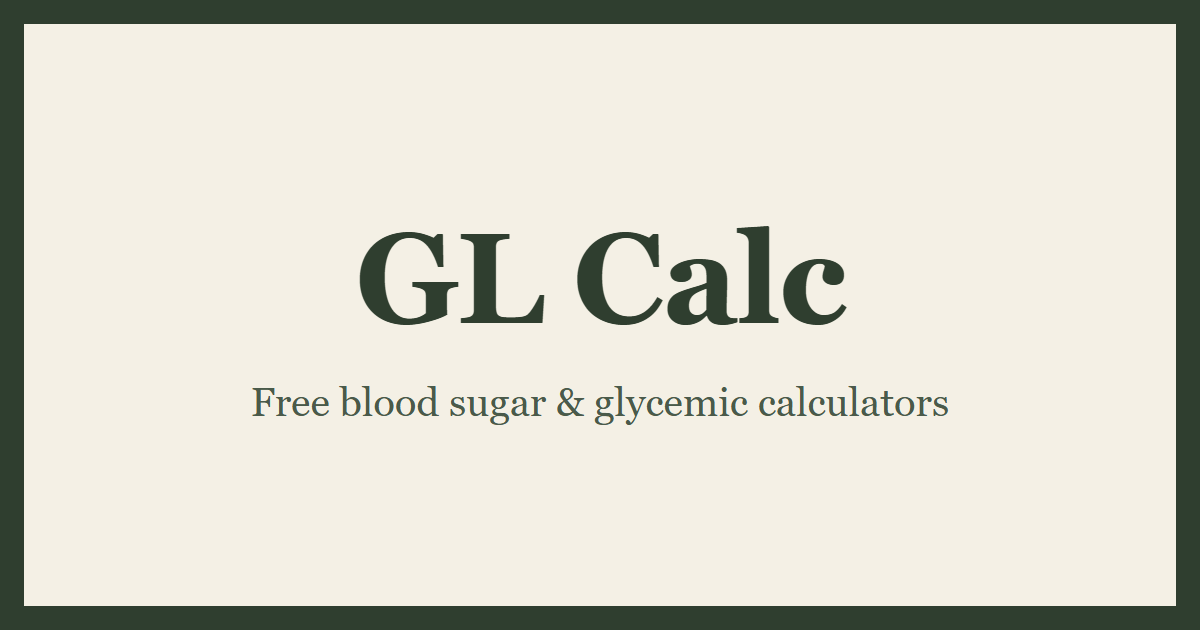
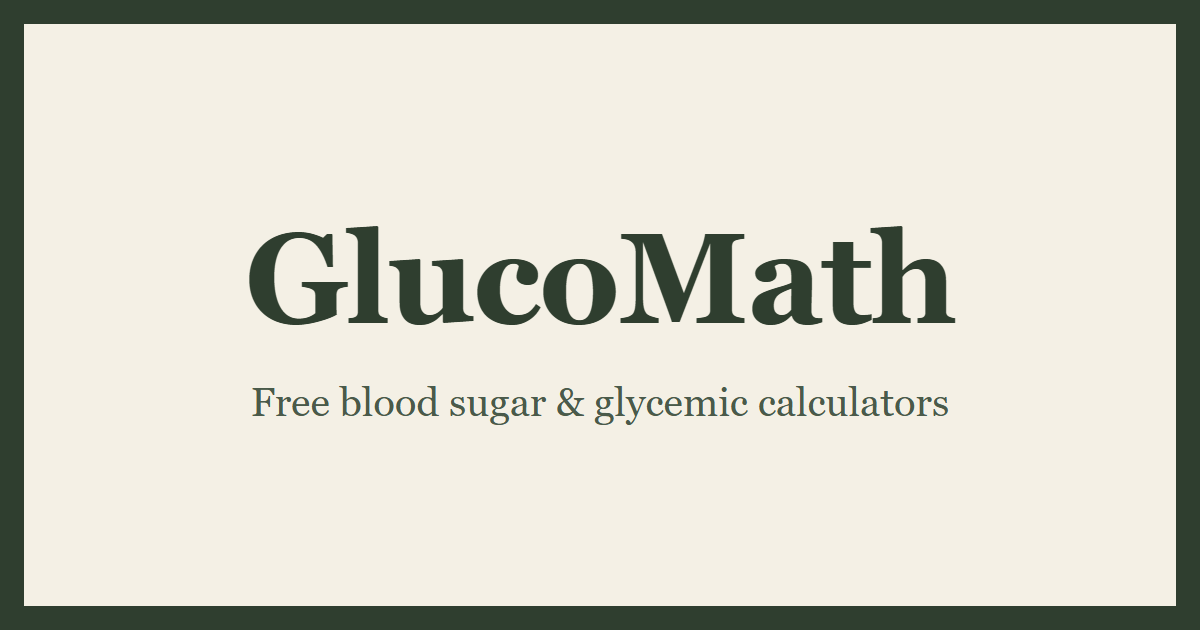
feat: brand and domain cutover to GlucoMath / glucomath.com (ticket 15 code side, verified)
Defaults flipped (env override kept, node fallback); manifest/meta/og-cover rebranded; pwa.spec reads BRAND from site.config; host-conditional 308 redirect glcalc.vercel.app -> glucomath.com; verify-dist item 10 now PASS (zero old-domain hits); assafmo MIT attribution untouched; independent QA pass cycle 1. Push held until Vercel domain binding.

Changed region(s): [[0.185, 0.3619, 0.8017, 0.5127]]

diff --git a/tests/e2e/pwa.spec.js b/tests/e2e/pwa.spec.js
@@ -1,4 +1,7 @@
 import { test, expect } from "@playwright/test";
+// Brand assertions read the site constant (Spec §4 P5-3): a future rename only
+// touches src/site.config.js + the static assets, never this spec.
+import { BRAND } from "../../src/site.config.js";
 
 test("exposes installable PWA metadata and icon assets", async ({ page, request }) => {
   await page.goto("/");
@@ -13,7 +16,7 @@ test("exposes installable PWA metadata and icon assets", async ({ page, request 
   await expect(appleCapable).toHaveAttribute("content", "yes");
 
   const appleTitle = page.locator('meta[name="apple-mobile-web-app-title"]');
-  await expect(appleTitle).toHaveAttribute("content", "GL Calc");
+  await expect(appleTitle).toHaveAttribute("content", BRAND);
 
   const appleTouchIcon = page.locator('link[rel="apple-touch-icon"]');
   await expect(appleTouchIcon).toHaveAttribute("href", "/icons/apple-touch-icon.png");
@@ -22,8 +25,8 @@ test("exposes installable PWA metadata and icon assets", async ({ page, request 
   expect(manifest.ok()).toBeTruthy();
 
   const manifestJson = await manifest.json();
-  expect(manifestJson.name).toBe("Glycemic Load Calculator");
-  expect(manifestJson.short_name).toBe("GL Calc");
+  expect(manifestJson.name).toBe(BRAND);
+  expect(manifestJson.short_name).toBe(BRAND);
   expect(manifestJson.theme_color).toBe("#f4f0e5");
   expect(manifestJson.background_color).toBe("#f4f0e5");
   expect(manifestJson.icons).toEqual(

diff --git a/src/site.config.js b/src/site.config.js
@@ -1,6 +1,12 @@
 // Site-wide constants. All absolute URLs (canonical/OG/sitemap/schema) must be
 // generated from SITE_ORIGIN; switching domains (Spec §4 P5) only changes env vars.
-export const SITE_ORIGIN =
-  import.meta.env.VITE_SITE_ORIGIN || "https://glcalc.vercel.app";
+//
+// Env source: Vite contexts (app/dev/build/vitest) provide import.meta.env;
+// plain Node contexts (Playwright specs importing these constants, e.g.
+// tests/e2e/pwa.spec.js) fall back to process.env — same VITE_* variable
+// names, same defaults, so a build-time override stays consistent everywhere.
+const env = import.meta.env ?? process.env ?? {};
 
-export const BRAND = import.meta.env.VITE_BRAND || "GL Calc";
+export const SITE_ORIGIN = env.VITE_SITE_ORIGIN || "https://glucomath.com";
+
+export const BRAND = env.VITE_BRAND || "GlucoMath";

diff --git a/tests/e2e/app.spec.js b/tests/e2e/app.spec.js
@@ -62,7 +62,7 @@ test("loads the app shell", async ({ page }) => {
 
   // Title = §5B.1 final copy (ticket 04 head layer): the pre-rebuild hardcoded
   // index.html title no longer exists. Still an exact-match assertion.
-  await expect(page).toHaveTitle("Glycemic Load Calculator – GL by Food & Serving | GL Calc");
+  await expect(page).toHaveTitle("Glycemic Load Calculator – GL by Food & Serving | GlucoMath");
   await expect(page.getByRole("heading", { name: "Glycemic Load Calculator", exact: true })).toBeVisible();
   const startCta = page.locator(".hero__cta");
   await expect(startCta).toBeVisible();

diff --git a/index.html b/index.html
@@ -22,8 +22,8 @@
       gtag("config", "G-PDPYWE3JR5");
     </script>
     <meta name="theme-color" content="#f4f0e5" />
-    <meta name="application-name" content="Glycemic Load Calculator" />
-    <meta name="apple-mobile-web-app-title" content="GL Calc" />
+    <meta name="application-name" content="GlucoMath" />
+    <meta name="apple-mobile-web-app-title" content="GlucoMath" />
     <meta name="apple-mobile-web-app-capable" content="yes" />
     <meta name="mobile-web-app-capable" content="yes" />
     <meta name="apple-mobile-web-app-status-bar-style" content="default" />

diff --git a/tests/e2e/seo.spec.js b/tests/e2e/seo.spec.js
@@ -7,8 +7,8 @@
 
 import { test, expect } from "@playwright/test";
 
-const BRAND = process.env.VITE_BRAND ?? "GL Calc";
-const ORIGIN = process.env.VITE_SITE_ORIGIN ?? "https://glcalc.vercel.app";
+const BRAND = process.env.VITE_BRAND ?? "GlucoMath";
+const ORIGIN = process.env.VITE_SITE_ORIGIN ?? "https://glucomath.com";
 
 const ALL_ROUTES = [
   "/",

diff --git a/tests/e2e/prerender.spec.js b/tests/e2e/prerender.spec.js
@@ -4,7 +4,7 @@
 
 import { test, expect } from "@playwright/test";
 
-const BRAND = process.env.VITE_BRAND ?? "GL Calc";
+const BRAND = process.env.VITE_BRAND ?? "GlucoMath";
 
 const ROUTES = [
   { path: "/", h1: "Free Blood Sugar & Glycemic Calculators" },

diff --git a/tasks.md b/tasks.md
@@ -8,7 +8,7 @@
 
 ## P0 人类依赖（Agent 无法代办，只登记状态）
 
-- [!] 购买 glucomath.com（Spaceship；溢价则备选 glucoconvert → glycocalc → a1cmate）｜备注: 等站长确认，不阻塞 P1~P4
+- [x] 购买 glucomath.com（Spaceship）｜完成: 2026-09-14 ｜证据: 站长截图确认——1 年注册 + Auto-renew On + 免费隐私，首年 $8.88，续费价 $9.98/年（≤$10 预算达标）
 - [!] GSC 域名验证 DNS TXT ｜备注: 等站长
 - [!] 提供维护者署名与联系方式 ｜备注: 未提供时用兜底串 "Maintained by the {BRAND} project"
 
@@ -72,11 +72,12 @@
 
 ## P5 域名切换（阻塞于 P0 域名购买）
 
-- [!] Vercel 绑定 glucomath.com + VITE_SITE_ORIGIN 重 build ｜备注: 等 P0
-- [!] 旧域全路径重定向（断言 status ∈ {301,308}）｜备注: 等 P0
-- [!] 品牌名切换（BRAND + manifest + pwa.spec.js 断言 + og-cover 重制）｜备注: 等 P0
-- [!] GSC 新资源 + sitemap 提交 ｜备注: 等 P0
-- [!] verify-dist ⑩ 启用（glcalc.vercel.app 零命中）｜备注: 等 P0
+- [x] ticket 15 代码侧：品牌/域名切换（BRAND+SITE_ORIGIN 默认值、manifest、og-cover、pwa.spec、旧域重定向、verify-dist ⑩）｜开始: 2026-09-14 06:50 ｜完成: 2026-09-14 07:00 ｜证据: `npm run check` 全绿（.scratch/ticket15-check.log）：unit 7 文件 74/74 → build+prerender 8 路由（canonical/sitemap/og:url/og:image 全 glucomath.com）→ verify-dist 全 PASS 含 **⑩ 从 SKIPPED 变 PASS**（dist 递归全文件 grep glcalc.vercel.app 零命中，独立 rg 复核 exit 1 无匹配；新增 vercel.json host 条件重定向断言 PASS）→ e2e 90/90（pwa.spec 品牌断言改 import site.config BRAND，Node 侧经 `import.meta.env ?? process.env` 回退可加载）。site.config 默认翻转 GlucoMath/https://glucomath.com（env 覆盖保留）；prerender/verify-dist/seo.spec/prerender.spec 同步默认（verify-dist 保持独立硬编码不 import）；manifest name/short_name + index.html application-name/apple-mobile-web-app-title = GlucoMath；og-cover.png 重制（1200×630 图内 GlucoMath）；vercel.json redirects: host=glcalc.vercel.app source /(.*) → https://glucomath.com/$1 permanent（非 rewrite，红线不触）；public/robots+sitemap 源文件域名同步（build 时被 prerender 重写，仅防混淆）；README 部署 URL 换新域（assafmo/TigerVanguard github 链接零改动，红线 8）。未 commit（编排者统一提交）
+- [!] Vercel 绑定 glucomath.com + 生产部署 ｜备注: 站长操作（域名已购），见下方手动清单
+- [!] 旧域全路径重定向（断言 status ∈ {301,308}）｜备注: vercel.json host 条件 308 配置已就绪（ticket 15）；线上抽查 ≥3 路径待站长绑定域名并部署后执行
+- [x] 品牌名切换（BRAND + manifest + pwa.spec.js 断言 + og-cover 重制）｜完成: 2026-09-14 07:00 ｜证据: ticket 15 代码侧条目
+- [!] GSC 新资源 + sitemap 提交 ｜备注: 等站长（DNS TXT 验证）
+- [x] verify-dist ⑩ 启用（glcalc.vercel.app 零命中）｜完成: 2026-09-14 07:00 ｜证据: 条件启用（SITE_ORIGIN 含 vercel.app 时 SKIPPED），默认构建 PASS，见 ticket 15 条目
 
 ## T6 上线后验收（GSC，禁 site:；长期跟踪，Spec §8 T6）
 

diff --git a/README.md b/README.md
@@ -1,3 +1,3 @@
 Based on the open-source project [glcalc.com](https://github.com/assafmo/glcalc.com) by Assaf Morami, MIT License, © 2018. The original copyright and permission notice is preserved in [LICENSE](LICENSE).
 
-Glycemic Load Calculator https://glcalc.vercel.app/
+GlucoMath — free blood sugar & glycemic calculators: https://glucomath.com/
